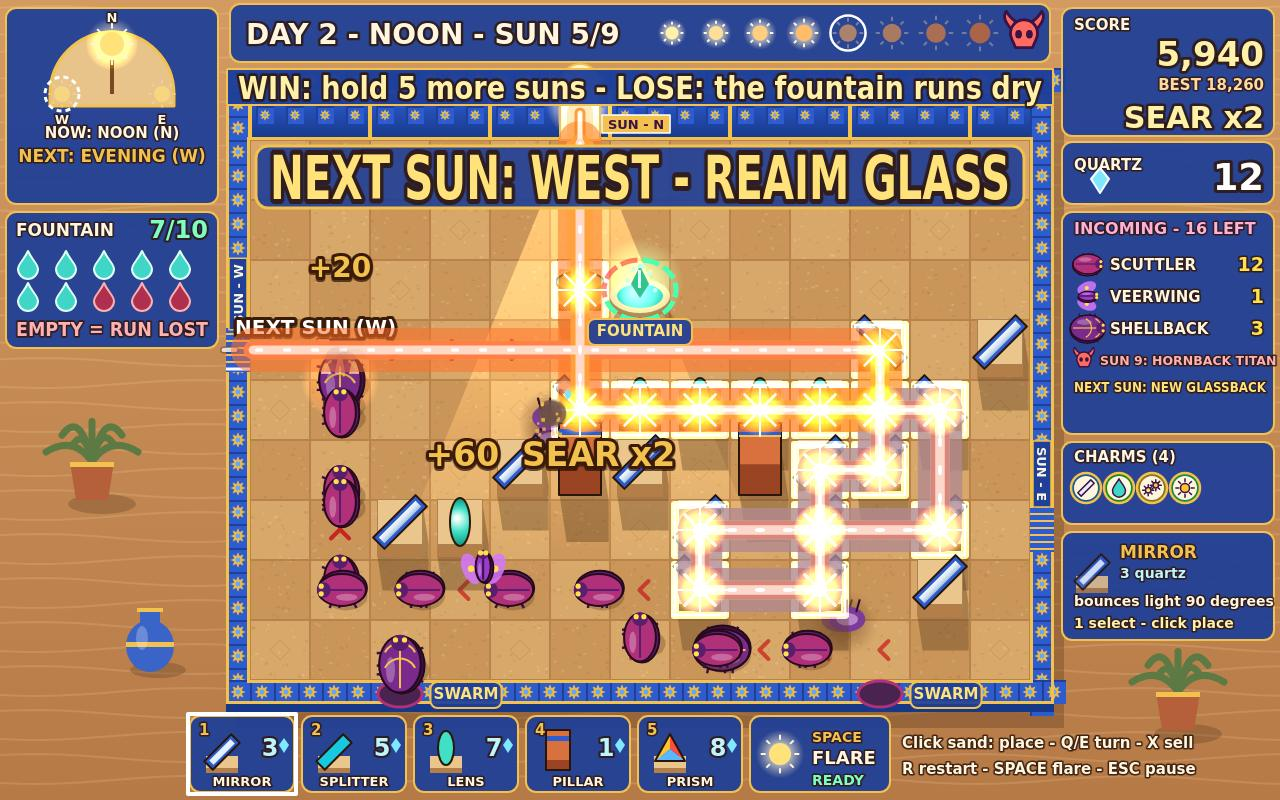
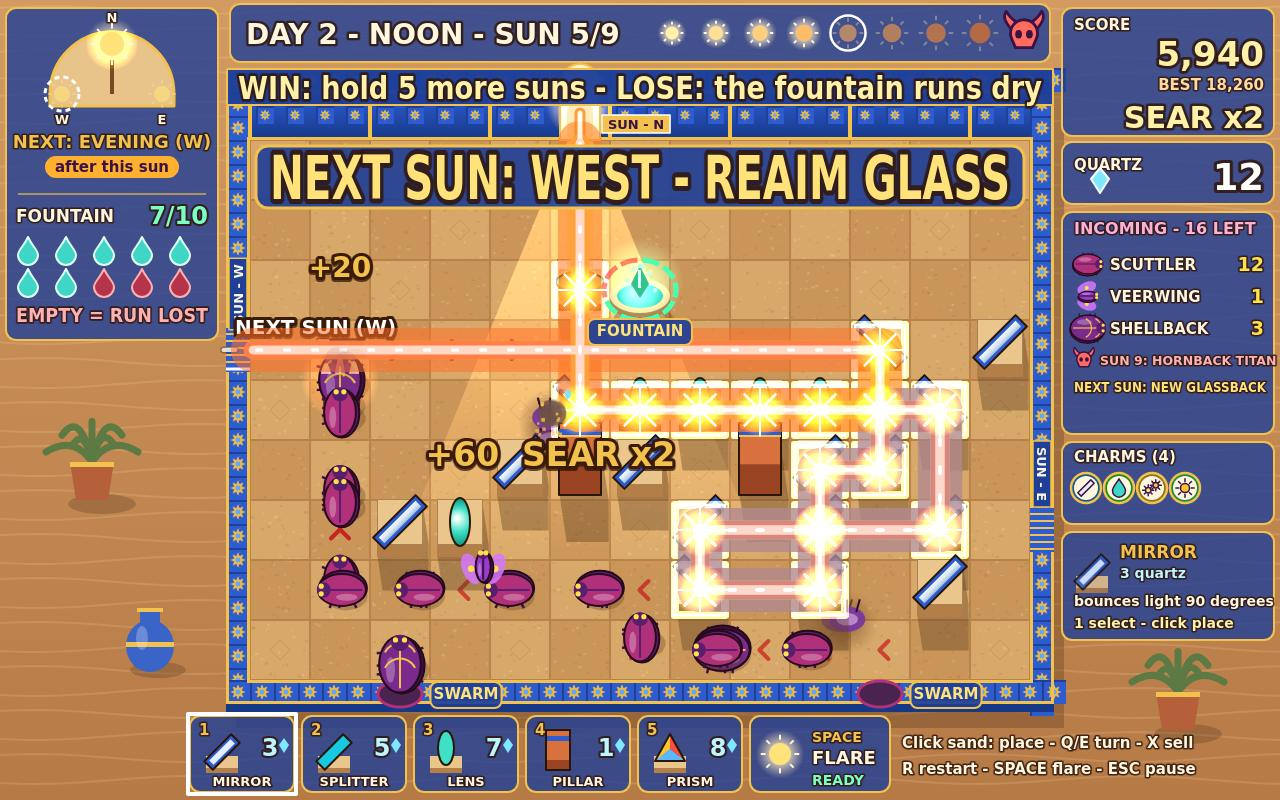
HUD hierarchy: 80% lapis panels, sun dial and fountain in one left panel, dial shows NEXT with an 'after this sun' trigger chip (no duplicate NOW line)

diff --git a/game/src/render/hud.js b/game/src/render/hud.js
@@ -49,7 +49,7 @@ function text(ctx, str, x, y, size, color = INK, align = 'left', weight = 700) {
 }
 
 function panel(ctx, x, y, w, h) {
-  ctx.fillStyle = 'rgba(31,63,153,0.93)';
+  ctx.fillStyle = 'rgba(31,63,153,0.8)';
   ctx.beginPath();
   ctx.roundRect(x, y, w, h, 10);
   ctx.fill();
@@ -188,10 +188,20 @@ function drawSunDial(ctx, run, cx, cy) {
     }
     text(ctx, wall[0].toUpperCase(), gx, gy + (wall === 'north' ? -22 : 30), 13, INK, 'center', 900);
   }
-  const phase = run.aperture.phase;
-  text(ctx, `NOW: ${phase.name} (${phase.wallName[0]})`, cx, cy + 44, 15, INK, 'center', 800);
-  if (nextAp) text(ctx, `NEXT: ${nextAp.phase.name} (${nextAp.phase.wallName[0]})`, cx, cy + 68, 17, GOLD, 'center', 900);
-  else text(ctx, 'FINAL SUN', cx, cy + 68, 17, GOLD, 'center', 900);
+  text(ctx, nextAp ? `NEXT: ${nextAp.phase.name} (${nextAp.phase.wallName[0]})` : 'FINAL SUN', cx, cy + 54, 18, GOLD, 'center', 900);
+  // The real trigger: the sun moves when this sun ends (never a timer).
+  if (nextAp) {
+    const chip = run.phase === 'build' ? 'after the coming sun' : 'after this sun';
+    ctx.font = `900 15px ${FONT}`;
+    const w = ctx.measureText(chip).width + 20;
+    ctx.fillStyle = '#FFB02E';
+    ctx.beginPath();
+    ctx.roundRect(cx - w / 2, cy + 62, w, 22, 11);
+    ctx.fill();
+    ctx.fillStyle = '#3B1247';
+    ctx.textAlign = 'center';
+    ctx.fillText(chip, cx, cy + 78);
+  }
 }
 
 /** One water droplet pip: pointed top, round bottom. */
@@ -242,10 +252,15 @@ function drawFountainPips(ctx, run, y) {
 
 
 function drawLeftPanel(ctx, run) {
-  panel(ctx, LEFT_X, 8, PANEL_W, 196);
+  panel(ctx, LEFT_X, 8, PANEL_W, 332);
   drawSunDial(ctx, run, LEFT_X + PANEL_W / 2, 94);
-  panel(ctx, LEFT_X, 212, PANEL_W, 136);
-  drawFountainPips(ctx, run, 236);
+  ctx.strokeStyle = 'rgba(242,193,78,0.6)';
+  ctx.lineWidth = 2;
+  ctx.beginPath();
+  ctx.moveTo(LEFT_X + 12, 194);
+  ctx.lineTo(LEFT_X + PANEL_W - 12, 194);
+  ctx.stroke();
+  drawFountainPips(ctx, run, 222);
 }
 
 /** The wide bar across the top: day, phase and sun count, then the 9-sun track. */

diff --git a/NOTES.md b/NOTES.md
@@ -148,6 +148,9 @@
 
 - Benchmark 2 item 22: potted palms and a lapis urn on the sand outside the walls (static surround).
 
+- Benchmark 3 item 5 (part): HUD panels at 80% opacity; sun dial + FOUNTAIN merged into one left
+  panel; dial shows only NEXT: EVENING (W) with an amber "after this sun" chip (the real trigger).
+
 ## Next
 - Staging (benchmark 2 item 1, benchmark 1 item 6): cover wants >= 18 beetles, >= 4 burning, >= 3
   floaters, a Scuttler at the rim and a fresh -1 FOUNTAIN; draft and win at 6/10 (now 8/10).
@@ -156,7 +159,8 @@
 - Benchmark 2 item 12 (Glassback on the cover): tried one scout Glassback in sun 5 (+ draft chip
   showing nextSunPreview). Best winning seed 2090 gave 19 beetles / 4 types but weak beams, fading
   floaters and a floater-on-beam truth failure, Glassback not deflecting - reverted.
-- Benchmark 3 item 5 (hierarchy budget: board >= 58% of the cover, merge left panels) - lowest.
+- Benchmark 3 item 5 rest: board >= 58% of the cover (now ~52% incl. walls: needs a layout change),
+  <= 3 type sizes in the HUD.
 - M3 leftovers: colour-blind beam patterns option, illustrated How to play.
 
 ## Known bugs
